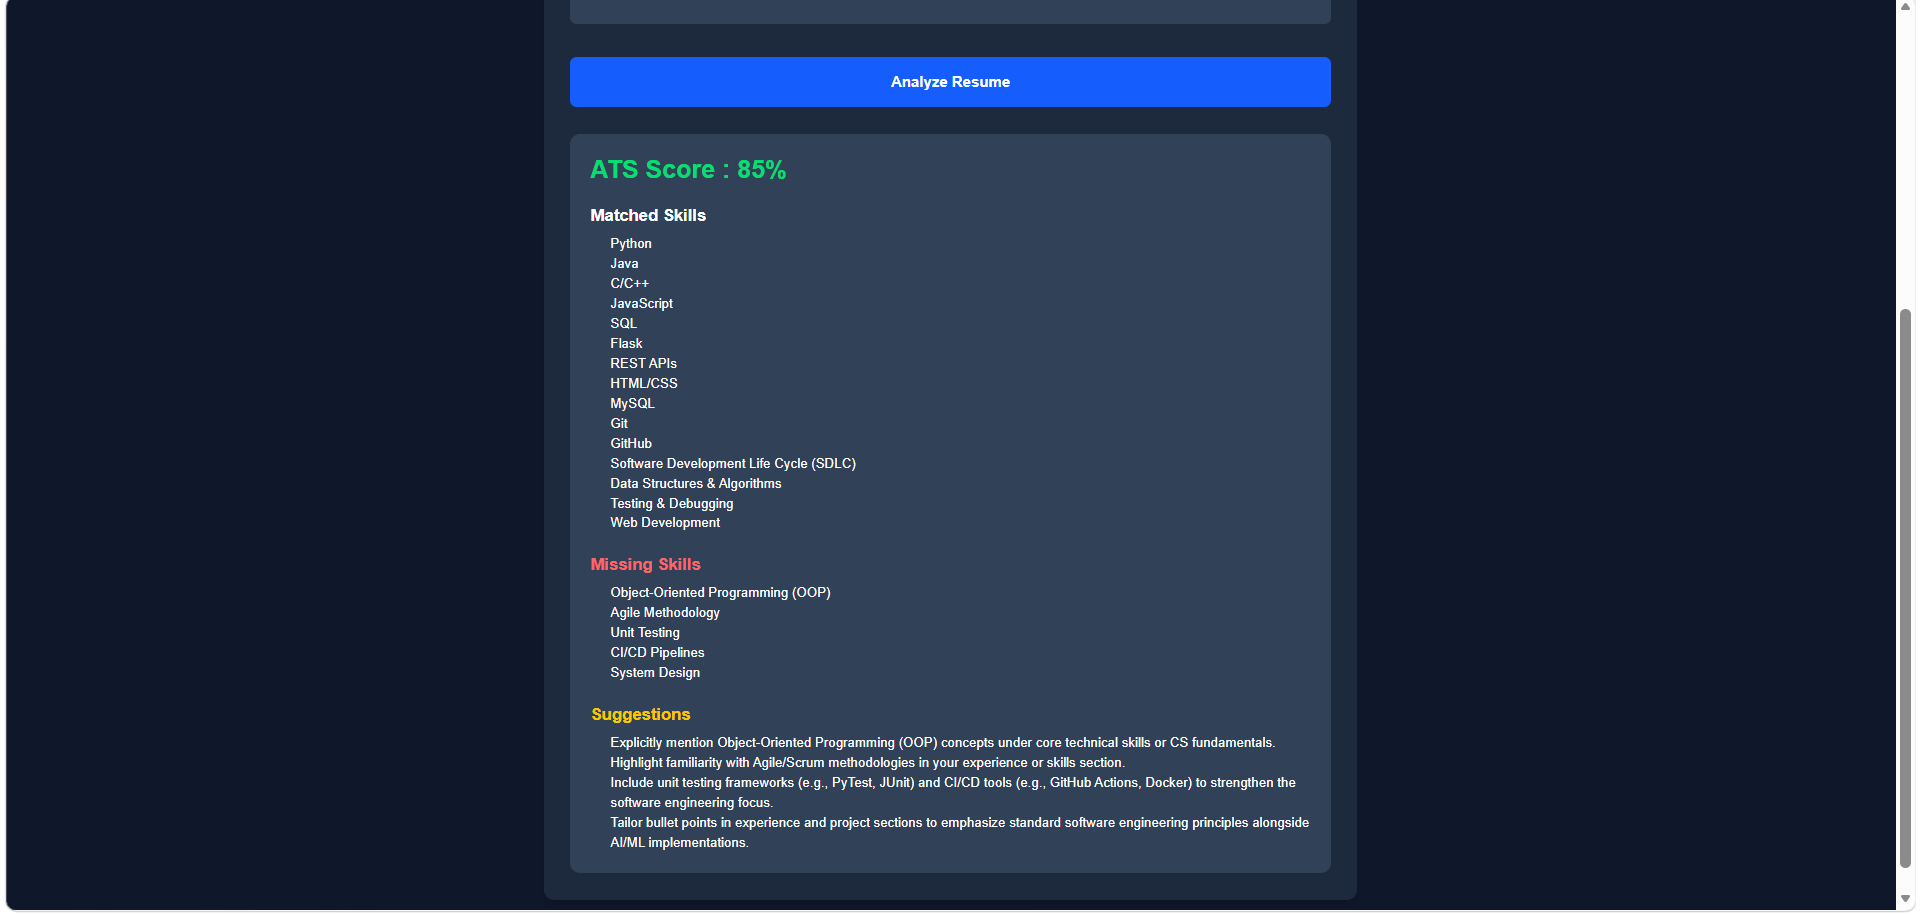
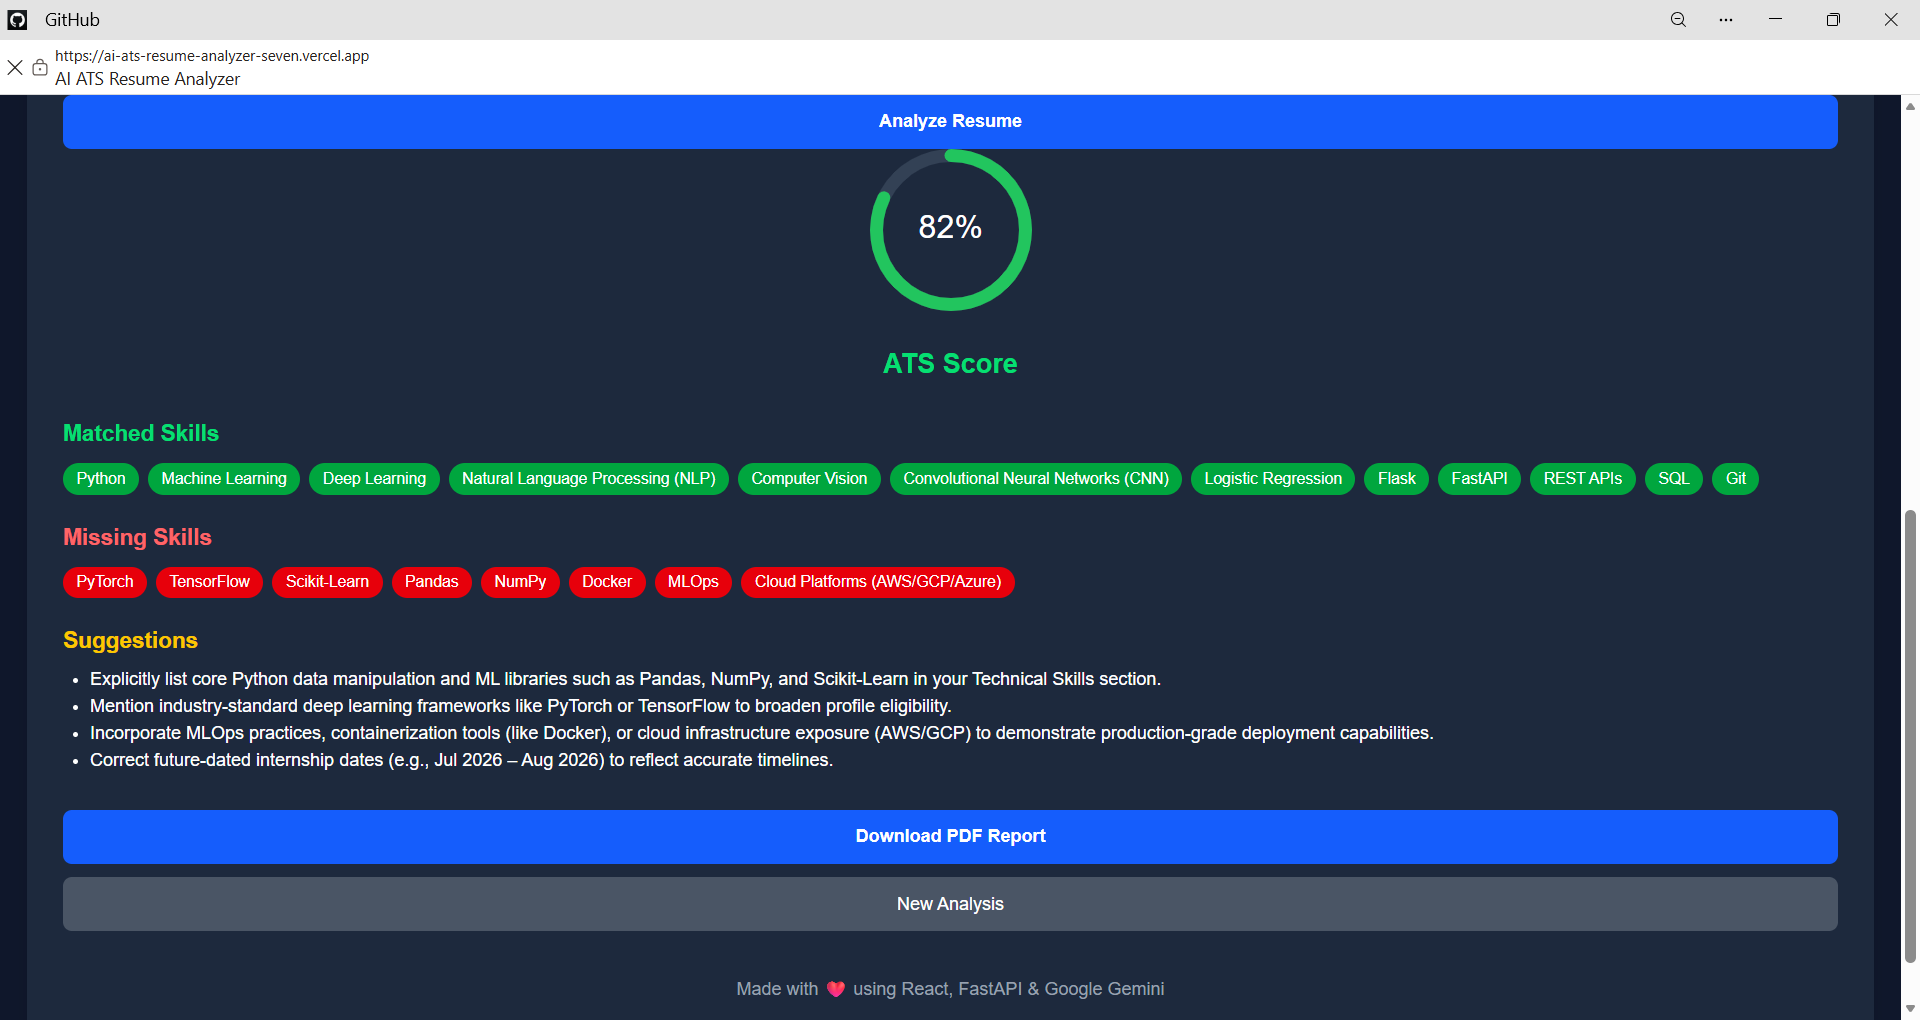
Add description screenshots

diff --git a/README.md b/README.md
@@ -53,6 +53,10 @@ https://ai-ats-resume-analyzer-1296.onrender.com/
 
 ![Home Page](screenshots/home_page.png)
 
+## JOB DESCRIPTION
+
+![Job Description](screenshots/description.png)
+
 ## ATS Analysis Result
 
 ![Analysis Result](screenshots/analysis_result.png)
